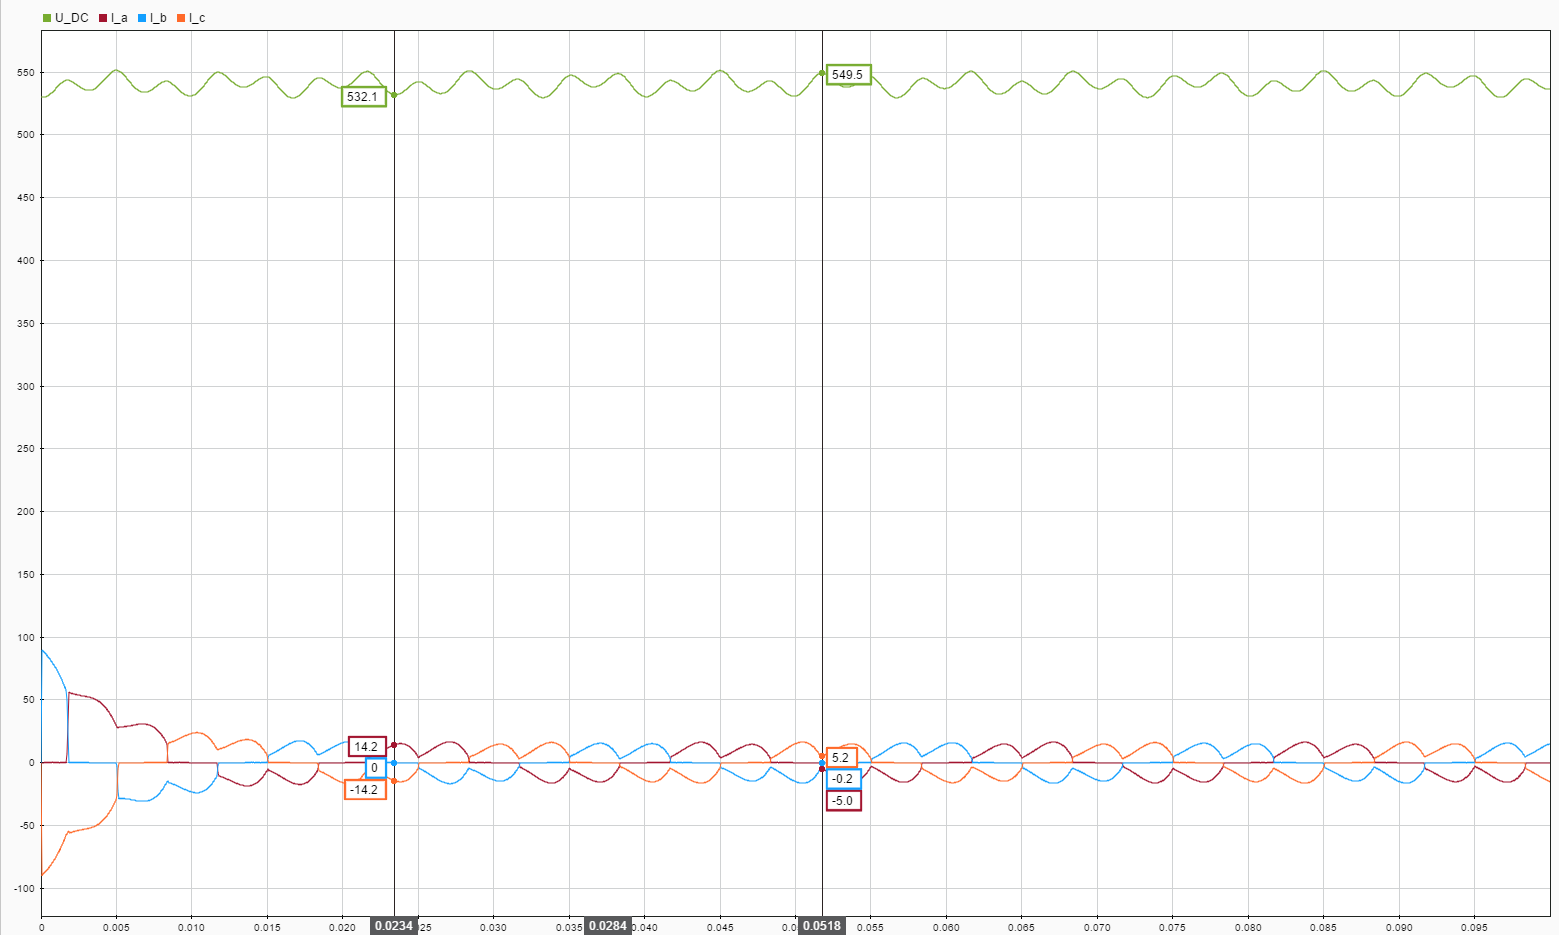
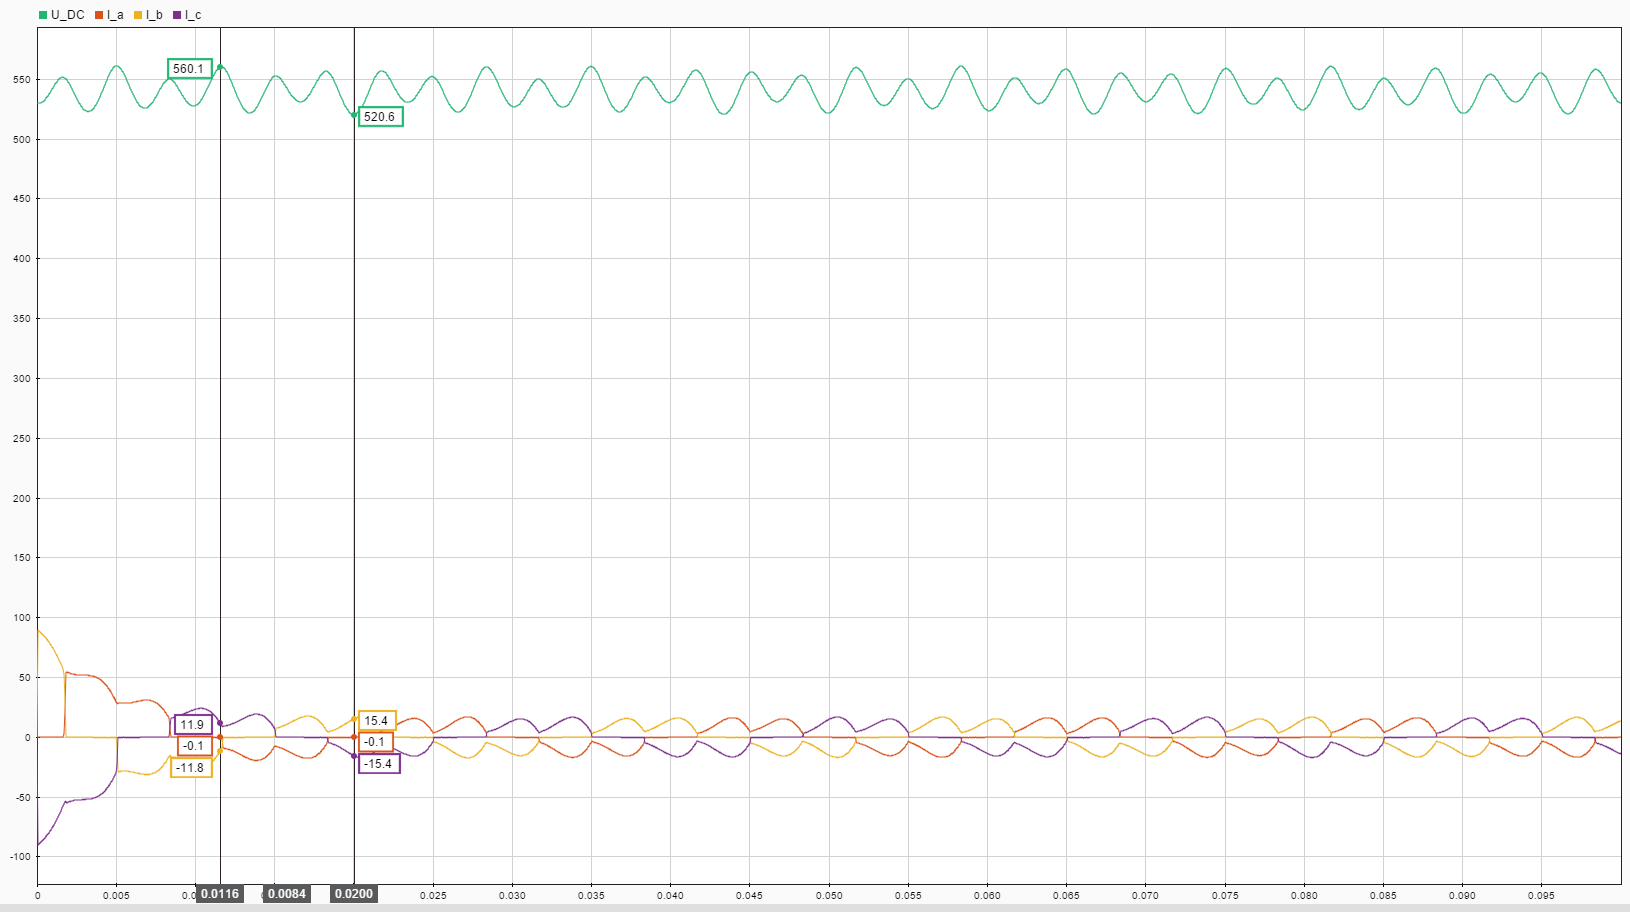
no message

diff --git a/content/results.tex b/content/results.tex
@@ -2,7 +2,7 @@
 
 \section{Az első tesztek}
 
-Először is az implementált modell helyességét kell megvizsgálni. Eh
+Először is az implementált modell helyességét kell megvizsgálni. Ehhez vegyük szemügyre \aref{fig:cont_run}. ábrát. Láthatjuk rajta a három bejövő fázis áramát, illetve a DC feszültséget. A látottakról elmondható, hogy a görbék jellegüket tekintve helyesek, a kezdeti tranziens után állandósult állapotba kerül a rendszer. Az egyes fázisok áramai szimmetrikusak, az áramalakon, valamint a feszültséghullámoságon is megfigyelhető a várt, $50 Hz$-es hálózatból adódó $300\ Hz$-es hullámosság. A szimuláció $11\ A$-es konstans terhelés mellett készült, így jelentős $40\ V$-os DC hullámosság figyelhető meg.
 
 \begin{figure}[H]
 	\centering
@@ -11,12 +11,26 @@ Először is az implementált modell helyességét kell megvizsgálni. Eh
 	\label{fig:cont_run}
 \end{figure}
 
+\Aref{fig:meas_1}. ábrán már egy valós futás eredményét látjuk, a pitos görbe a DC feszültség. Ez a mérés nem műszerrel készült, a frekvenciaváltó valós mérése került rögzítésre a HiTerm szoftver segítésgével. Láthatjuk, hogy a jelelek középértéke mint egy $30\ V$-al kisebb, ez a különbség a hálózat csúcsfeszültségének értékéből adódik. Szintén láthatjuk, hogy a kimenő áram csúcsértéke $16\ A$, melynek effektív értéke $\frac{16}{sqrt{s}} \approx 11\ A$, így a szimuláció és a mérés eredménye összehasonlítható, hiszen a szimulált eszköz valódi példányán készült, hasonló futási paraméterek mellett. Láthatjuk, hogy a DC feszültség hullámossága ebben az esetben csak $30\ V$, ami jelentős eltérésnek tűnhet a szimulációval szemben, ennek azonban van magyarázata. A DC-link kondenzátor két sorba kötött B43544B5277M002 típusú elektrolit kondenzátor. Az alumínium-elektrolit kondenzátoroknak jellemzően nagy szórásuk van kapacitás tekintetében, az adatlapból leolvashatjuk, hgy ennek a konrét példánynak $\plusminus 20\%$, tehát a névleges érétktől valóban jelentősen eltréhet a valós kapacitás, aminek közveteln hatása van a mért DC hullámosságra.
+
+\begin{figure}[H]
+	\centering
+	\includegraphics[width = \textwidth]{figures/50Hz_400V_LD12A_10k.jpeg}
+	\caption{Egy valós mérés eredménye} 
+	\label{fig:meas_1}
+\end{figure}
+
+\Aref{fig:hil_desk}. ábrán a teszteket megvalósító hardvert láthatjuk működés közben. Jól megfigyelhető, hogy bár nem az aktuális tervek szerinti hadrvert láthatjuk, számos módosítás elvégzésre került rajta, hogy megfelejen a követelményeknek, illetve hogy ki lehessen próbálni a módosítások hatását.
+
 \begin{figure}[H]
 	\centering
 	\includegraphics[width = \textwidth]{figures/hil_table.jpg}
 	\caption{Az összeállított HIL deszkamodell} 
 	\label{fig:hil_desk}
 \end{figure}
+
+\Aref{fig:office_testbench}. ábárán látható az úgynevezett ,,office testbench''
+ azaz az irodai tesztpadunk. Erre fel van szerelve két egymásnak fordított $1,1\ kW$-os motor, az egyiket a Hyundai által fejlesztett Frame 1-es frekvenciaváltó hajtja, a másikat egy PROCON gyártmányú. Az eszköz segítségével könnyedén ki tudjuk próbálni a szoftver módosításait a nagyáramú laboratórium segítsége nélkül, tetszőleges terhelés mellett. 
 
 \begin{figure}[H]
 	\centering

diff --git a/content/hil.tex b/content/hil.tex
@@ -179,6 +179,17 @@ Az így kapott jelet már a modellből az FPGA lábára vezethetjük. Mivel az F
 
 \subsection{Kiegészítő csatlakozó}
 
+A könnyű bővítési lehetőségeket biztosítandó, a kártyán elhelyezésre került egy kiegészítő csatlakozó. Ennek segítségével később könnyedén kielégíthetőek lesznek most még nem látható igények. Az lábakon átajunk mind a $24\ V$-os, mind az $5\ V$-os tápfeszültséget, illetve a fel nem használt FPGA I/O-k vannak kivezetve. A lábak között kettőt dedikáltan I2C vonalnak használtam, itt a különbség mindössze annyi a többi lábhoz képest, hogy opconálisan beforrasztható egy felhúzó ellenállás, illetve szintén forrasztható be sosors impedancia. A csatlakozó pontos lábkiosztása \aref{fig:hil_extender}. ábrán látható.
+
+\begin{figure}[!h]
+	\centering
+	\includegraphics[width = \textwidth]{figures/hil_extender.png}
+	\caption{A HIL kártya kiegészítő csatlakozója} 
+	\label{fig:hil_extender}
+\end{figure}
+
+A kártya teljes kapcsolási rajza a dolgozat függelékében megtalálható.
+
 \section{Simulink modell}
 
 A futtatandó modell magában foglalja a teljesítményelektronikai elemek modelljét, egy motor modellt és egy mechanikai terhelés modellt. Hiányossaág volt a modellnek, hogy a DC link feszültésge egy konstans érték volt, így a különböző terhelések DC feszültségre való visszahatásást nem lehetett vizsgálni. További hiányosság, hogy a hálózat paramétereit sem vette így figyelembe a modell.

diff --git a/content/diploma.tex b/content/diploma.tex
@@ -75,7 +75,7 @@
 \include{content/inverter}
 \include{content/hil}
 \include{content/results}
-%\include{content/simulink}
+\include{content/summary}
 %\include{cntent/testing}
 
 %\include{content/latex-tools}
